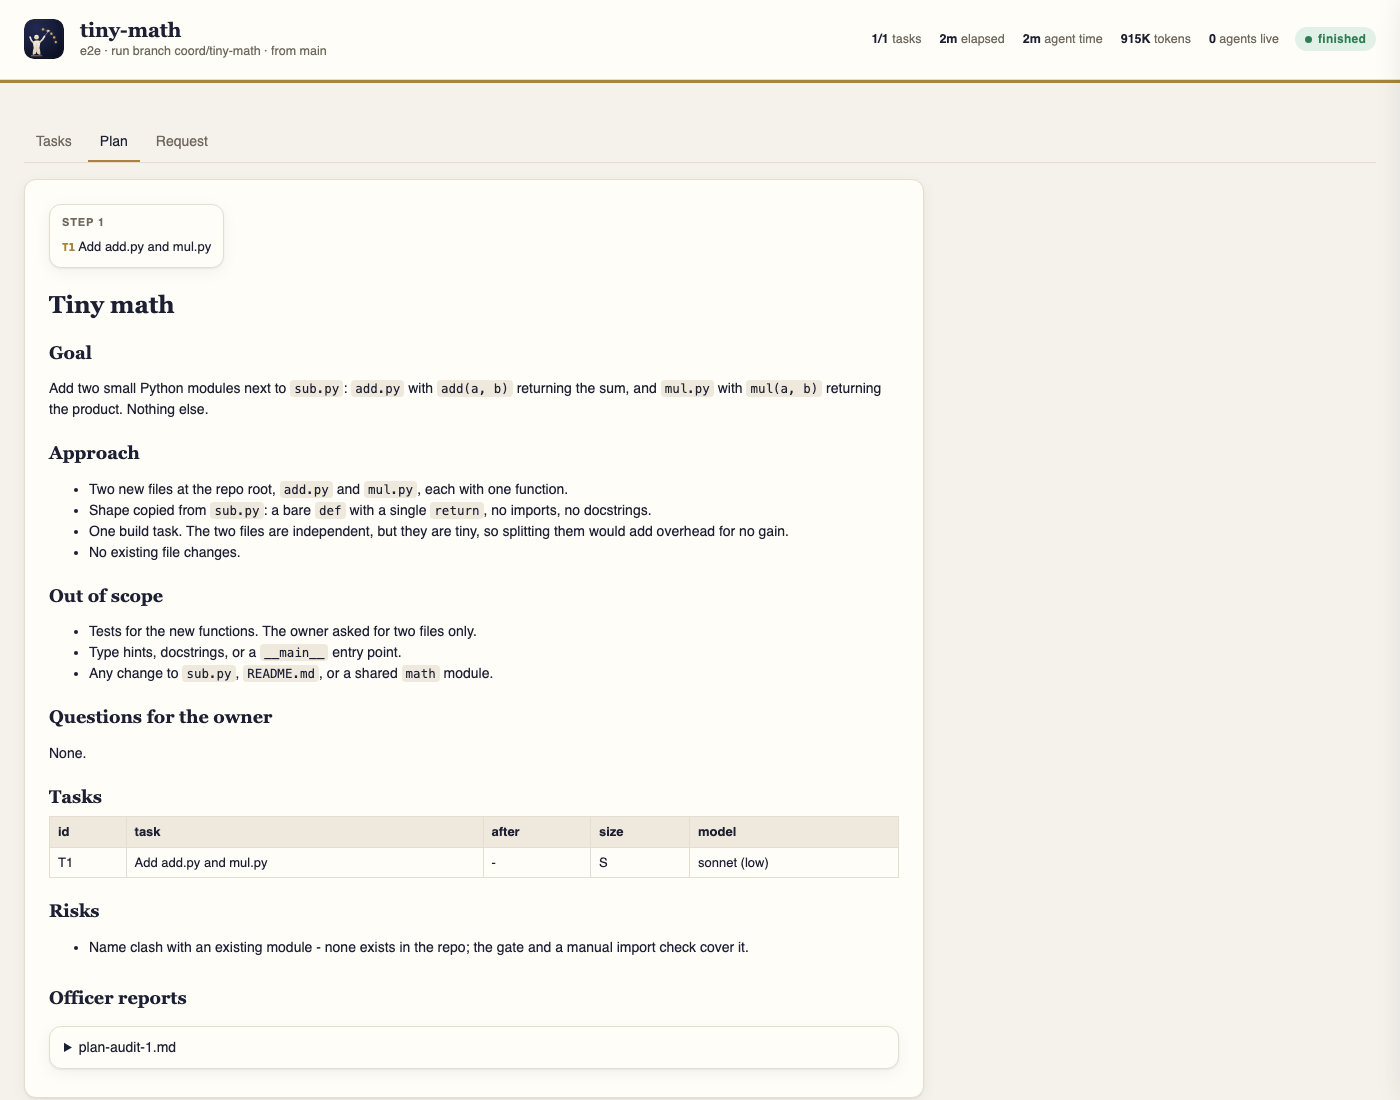
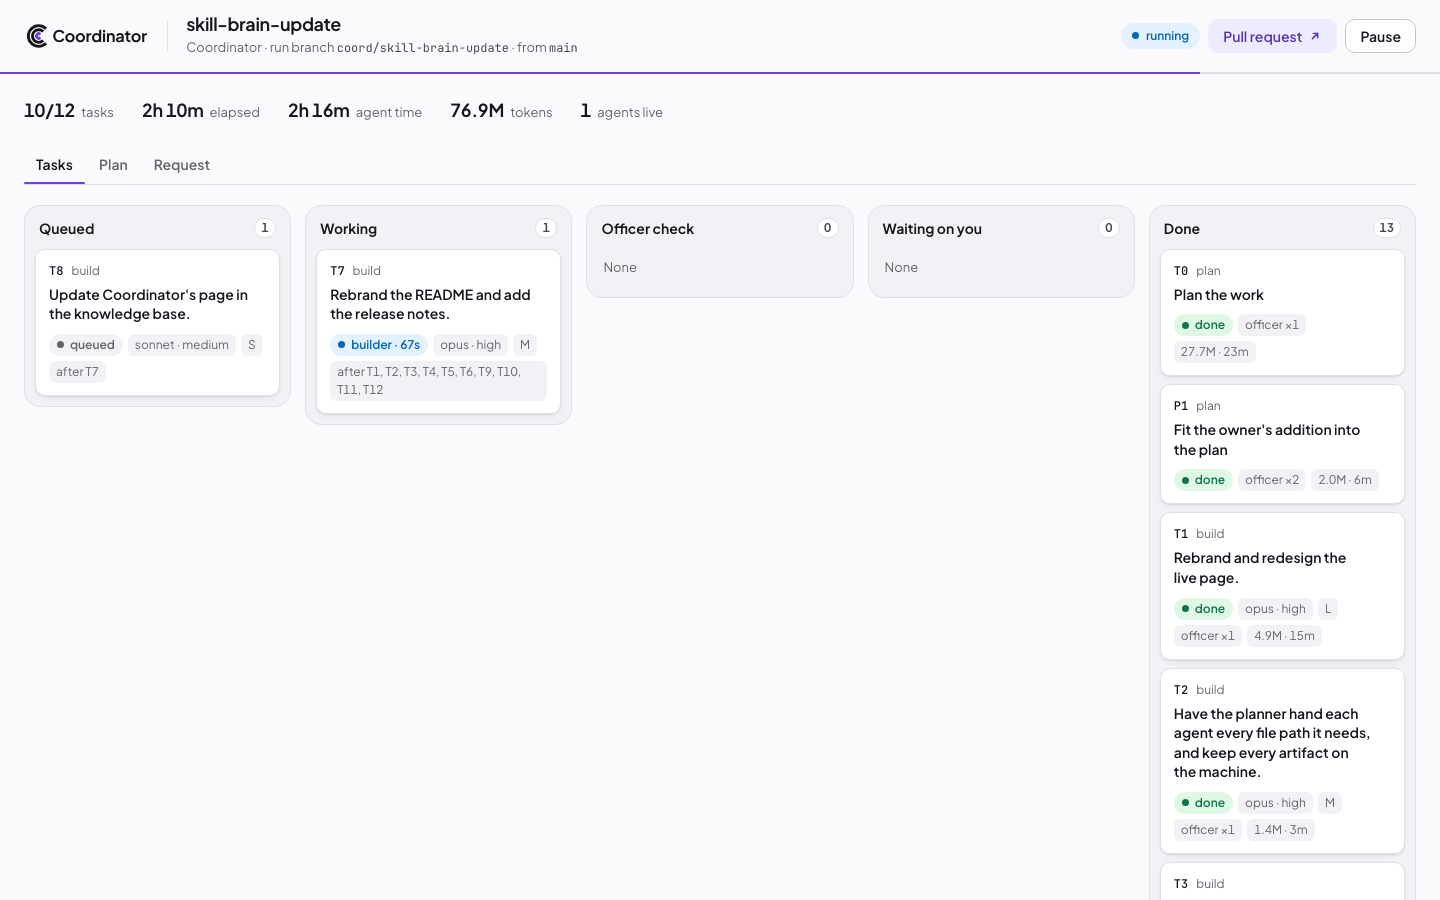
Rebrand the README and add the release notes.

diff --git a/README.md b/README.md
@@ -1,27 +1,55 @@
 <p align="center">
-  <img src="assets/banner.svg" alt="Coordinator - conduct a team of Claude Code agents from one request" width="100%">
-</p>
-
-<p align="center">
-  <img alt="version" src="https://img.shields.io/badge/version-0.4.2-c9a45c?style=flat-square">
-  <img alt="license" src="https://img.shields.io/badge/license-MIT-1d2033?style=flat-square">
-  <img alt="Claude Code" src="https://img.shields.io/badge/Claude%20Code-plugin-1d2033?style=flat-square">
-  <img alt="scheduling" src="https://img.shields.io/badge/scheduling-zero%20tokens-c9a45c?style=flat-square">
+  <img src="assets/banner.svg" alt="Coordinator: conduct a team of Claude Code agents from one request." width="100%">
 </p>
 
 <p align="center"><em>One request in. A planned, audited, reviewed branch out.</em></p>
 
 <p align="center"><a href="https://coordinator.kodexa.workers.dev"><strong>coordinator.kodexa.workers.dev</strong></a></p>
 
+<p align="center">
+  <img alt="version" src="https://img.shields.io/badge/version-0.5.0-6a44da?style=flat-square">
+  <img alt="license" src="https://img.shields.io/badge/license-MIT-151520?style=flat-square">
+  <img alt="Claude Code" src="https://img.shields.io/badge/Claude%20Code-plugin-151520?style=flat-square">
+  <img alt="scheduling" src="https://img.shields.io/badge/scheduling-zero%20tokens-6a44da?style=flat-square">
+</p>
+
 ---
 
-Coordinator turns a single `/coordinate` request into a small team of Claude Code agents that work in the
-background while you do something else. A planner splits the work, a **hallucination officer** checks the plan
-against your exact words, you approve it once, and builders work through it **in parallel**. Each builder works
-in its own git worktree, and each task is reviewed and checked again before it is merged.
+Coordinator turns one `/coordinate` request into a small team of Claude Code agents working in the background. A
+planner splits the work, a **hallucination officer** checks the plan against your exact words, you approve it once,
+and builders work **in parallel**, each in its own git worktree, reviewed and checked again before it is merged.
 
-The conductor never plays an instrument. Scheduling, merging, the gate and the live page are plain code and
-cost no tokens. The agents spend tokens only on planning, building and checking.
+The conductor never plays an instrument: scheduling, merging, the gate and the live page are plain code and cost no
+tokens. This repo is the skill; the [website](https://coordinator.kodexa.workers.dev/docs/) has the docs.
+
+## Install
+
+```sh
+git clone https://github.com/Kodexa-software/Coordinator.git ~/.coordinator/app && ~/.coordinator/app/install.sh
+```
+
+Then start a new Claude Code session and type `/coordinate`. Needs a recent Claude Code CLI, Python 3.9+ and git;
+`gh` for the pull request, Node.js for screenshots. As a plugin, or more detail:
+[Install](https://coordinator.kodexa.workers.dev/docs/install/).
+
+## Update
+
+```text
+/coordinate update
+```
+
+Or `coord update` in a terminal, then start a new session. Plugin install:
+[Update](https://coordinator.kodexa.workers.dev/docs/update/).
+
+## Remove
+
+```sh
+rm ~/.local/bin/coord ~/.claude/skills/coordinate
+rm -rf ~/.coordinator
+```
+
+End any active run first with `/coordinate terminate`. Plugin install:
+[Uninstall](https://coordinator.kodexa.workers.dev/docs/uninstall/).
 
 ## How a run flows
 
@@ -38,183 +66,62 @@ flowchart LR
     Q -- approve --> M[(Run branch<br/>+ gate)]
 ```
 
-1. **Plan.** A strong planner reads the code your request touches, not the whole repo, and writes `plan.md` plus
-   one brief per task. Each task gets its dependencies, the files it may change, its size, and the model and
-   effort it needs.
-2. **Audit.** The hallucination officer compares the plan with everything you have said. It looks for invented
-   requirements, enterprise-sized answers to simple asks, missed requirements, padded tasks, needlessly serial
-   steps and the wrong model for the job. It sends the plan back until it holds up; after three rounds, it asks
-   you.
-3. **Approve.** You read the plan on the live page or in chat and approve it, or say what to change. This is the
-   one stop in the run.
-4. **Build in parallel.** Tasks that don't depend on each other and don't share files run at the same time, each
-   in its own worktree. Each builder runs its own reviewer and fixes what it finds.
-5. **Audit and merge.** The officer checks each finished task against the plan and your words, without reading
-   the code. The scheduler then commits, merges into the run branch, runs your gate and pushes. A conflict or a
-   failing gate becomes a small fix task of its own. A draft pull request shows your full request, the plan and
-   every task, and is updated after each merge, so you can watch the changes land on GitHub.
+- **Plan.** The planner reads only the code your request touches and gives each task every file path it needs.
+- **Audit.** The officer sends the plan back until it matches your words: nothing invented, nothing missed.
+- **Approve.** Your one stop. Asks that belong to another repo start follow-up runs there, so none is dropped.
+- **Build.** Independent tasks run at once, each with its own reviewer. The draft pull request opens as work
+  starts and tracks every task.
+- **Merge.** The officer checks each task, then the scheduler commits, merges, runs your gate and pushes. Nothing
+  reaches your base branch for you.
 
-## Install
+Nothing leaves your machine: screenshots and other artifacts stay in the task's folder.
+[How it works](https://coordinator.kodexa.workers.dev/docs/how-it-works/) ·
+[Philosophy](https://coordinator.kodexa.workers.dev/docs/philosophy/).
 
-```sh
-git clone https://github.com/Kodexa-software/Coordinator.git ~/.coordinator/app && ~/.coordinator/app/install.sh
-```
+## The live page
 
-This links `/coordinate` into `~/.claude/skills` and `coord` into `~/.local/bin`. Start a new Claude Code session and
-type `/coordinate`. To update later, run `/coordinate update` (or `coord update` in a terminal), then start a new
-session.
+<p align="center"><img src="assets/live-page.png" alt="The live page: tasks moving from queued to working to done" width="88%"></p>
 
-**As a Claude Code plugin** instead: `/plugin marketplace add Kodexa-software/Coordinator`, then
-`/plugin install coordinator@coordinator`. Claude Code lists plugin commands with the plugin's name, so it shows as
-`/coordinator:coordinate` (typing `/coordinate` also works). Update it with
-`claude plugin marketplace update coordinator && claude plugin update coordinator@coordinator`.
+A local page on `127.0.0.1` shows the tasks moving from queued to done. Read each agent's conversation live, open
+any file or image, approve the plan with an answer per question, and see everything waiting on you in one list.
 
-**Needs:** a recent Claude Code CLI (`claude`), Python 3.9+, and git. The live pull request uses the GitHub CLI
-(`gh`). Before/after screenshots also need Node.js; Playwright is fetched on first use.
-
-## Use
-
-In Claude Code:
-
-```text
-/coordinate Add CSV export to the orders table, with the same columns the table shows.
-```
-
-The live page opens, the planner gets to work, and Coordinator tells you when the plan is ready. After that, a
-few words are enough:
+## Commands
 
 | You say | What happens |
 |---|---|
 | `/coordinate <request>` | Start a run |
-| `/coordinate plan <goal>` | Plan only: goals, milestones and tasks, saved in the project for a later run |
-| `/coordinate status` | Open the live page; one line in chat |
-| `/coordinate approve` | Approve the plan; building starts |
+| `/coordinate plan <goal>` | Plan only, saved in the project for a later run |
+| `/coordinate status` | Open the live page; what's waiting on you in chat |
+| `/coordinate approve` | Approve the plan (or on the live page, per question); building starts |
 | `/coordinate answer T3 <text>` | Answer an agent's question |
-| `/coordinate tell T3 <text>` | Send a note to a running agent; it arrives at its next step |
+| `/coordinate tell T3 <text>` | Send a note to a running agent |
 | `/coordinate add <text>` | Change the plan or add work; it goes back through the officer and you |
 | `/coordinate pause` / `resume` | Agents write an exact next step and stop / pick up where they stopped |
 | `/coordinate run` | Build a plan-only run, today or weeks later |
-| `/coordinate shots [note]` | Before/after screenshots (base branch vs run branch) as one PNG on your Desktop |
-| `/coordinate map [areas]` | Build or refresh the project map in `.coordinator/map/`, which planners read before the code |
-| `/coordinate accept T3` / `retry T3` / `stop T3` | Settle a task the officer keeps sending back / start it fresh / skip it |
-| `/coordinate update` | Update Coordinator to the latest version |
-| `/coordinate terminate` | End the run: stop every process, remove worktrees and internal files, keep the branch and the knowledge |
+| `/coordinate shots [note]` | Before/after screenshots as one PNG, saved in the shots task's folder |
+| `/coordinate todo` / `todo done <n>` | Manual steps only you can do / mark one done |
+| `/coordinate accept T3` / `retry T3` / `stop T3` | Settle a task / start it fresh / skip it |
+| `/coordinate update` | Update Coordinator |
+| `/coordinate terminate` | End the run; keep the branch and the knowledge |
+| `coord map [areas]` | Build or refresh the project map that planners read first |
 
 With the clone install, every command also works in a terminal as `coord <command>`, with no model involved.
+[All commands](https://coordinator.kodexa.workers.dev/docs/commands/).
 
-## The live page
+## Docs
 
-<p align="center"><img src="assets/live-page.png" alt="The live page: a plan with its steps, goal, approach and tasks" width="88%"></p>
+- [Configuration](https://coordinator.kodexa.workers.dev/docs/configuration/): settings, and where every file lives.
+- [How it works](https://coordinator.kodexa.workers.dev/docs/how-it-works/): roles, the live page, design languages,
+  the project map.
+- [Philosophy](https://coordinator.kodexa.workers.dev/docs/philosophy/): guard rails, tests off unless you ask,
+  your project's rules first.
 
-A small local page shows the tasks moving from queued to working, through the officer's check, to done. It also
-has the plan, the officer's reports, and each task's brief, changes and review. You approve plans and answer
-questions there too. It runs on `127.0.0.1` only, reads the run's files, and costs nothing to keep open.
+The earlier 0.1, measured on two real runs, spent 212M and 371M+ tokens across 40 and 64 agents. 0.2 was rebuilt
+for fewer, stronger agents in parallel, with an officer instead of cleanup. Next: measured numbers for today's
+version, and more on the live page.
 
-## Where things live
-
-| What | Where | After `terminate` |
-|---|---|---|
-| Project settings | `<project>/.coordinator/config.json` | kept |
-| The run's knowledge: `plan.md`, `tasks.json`, and per task `knowledge.md`, `changes.md`, `review.md`, officer reports | `<project>/.coordinator/<run>/` | kept, so a later run can continue |
-| Processes, logs, worktrees | `~/.coordinator/runs/<run>/` | removed |
-| Run branch | `coord/<run>`, pushed after every merged task, with a draft PR | kept |
-| Task branches | `coord-tasks/<run>/<task>` | removed |
-
-`.coordinator/` is added to the local `.git/info/exclude`, so it is never committed by accident. Each run also adds it
-to `.gitignore` in one commit on the run branch, so it reaches your branch through the run's pull request and your own
-checkout is never left with an uncommitted edit. Set `"gitignore": false` to keep your `.gitignore` untouched.
-
-## Configuration
-
-`<project>/.coordinator/config.json`. The planner fills in `gate`, `setup` and `dev` on the first run if you
-haven't.
-
-| Key | Default | Meaning |
-|---|---|---|
-| `gate` | `""` | Commands that prove a change (typecheck, lint, tests, build). Run by builders, and again after each merge |
-| `gate_cwd` | `"."` | Where the gate runs, relative to the repository root |
-| `setup` | `""` | What a fresh worktree needs first, for example linking dependencies from `$COORD_MAIN` |
-| `dev` | `{"command": "", "cwd": ".", "ready_path": "/"}` | Dev server for screenshots; `{port}` is replaced with a free port |
-| `max_parallel` | `3` | Builders at once |
-| `models` / `efforts` | Opus, high | Per role: `planner`, `builder`, `reviewer`, `officer`, `shooter`. The planner can set them per task |
-| `officer` | `{"plan": true, "tasks": true, "max_rounds": 3}` | Where the officer checks, and how many rounds before it asks you |
-| `permission_mode` | `"auto"` | Permission mode for background agents |
-| `deny` | push, commit, rebase, `reset --hard`, `gh pr`, publish, `sudo`, ... | Commands agents may never run |
-| `test_names` / `test_dirs` | common test file and folder patterns | What counts as a test file for the tests guard |
-| `gitignore` | `true` | Add `.coordinator/` to `.gitignore` on the run branch when it isn't there |
-| `push` / `pr` | `true` | Push the run branch after every merged task, and keep a draft PR with the request, the plan and the tasks up to date |
-| `base_branch` | the current branch | What the run branch starts from |
-
-## Design languages and the project map
-
-- **Design language, your choice.** When a request involves UI, the planner asks which design language to follow:
-  your project's own, Impeccable's (bundled), or another you name. The answer goes to every UI task, its
-  reviewer checks against it, and the officer checks the plan sticks to one.
-- **A map of your project.** `/coordinate map` builds a small, cited map of the code in `.coordinator/map/`, using
-  the System map method of Interpretable Context Methodology. Planners read it first instead of exploring the
-  repository on every run, and the officer checks it before it counts.
-
-Both are built in, with no other skills needed: Coordinator bundles the parts it uses, with credit and their
-licences, in [third_party/](third_party/README.md).
-
-## Guard rails
-
-- **Your project's rules come first.** Every agent loads the instruction files your own Claude Code session would:
-  the project's `CLAUDE.md` and `AGENTS.md`, those of every folder above it, and `.claude/rules`. It reads the
-  current versions, uncommitted edits included, and the guides they require. Where a project rule and an agent's
-  role disagree, the project wins, and the reviewer and the officer check it. Conflicts with how Coordinator works
-  are put to you as questions. Knowledge files your rules keep outside the repo (plans, status, decisions) are
-  planned as tasks and updated in place.
-- **Your words are the spec.** The request, every later addition and every answer are kept word for word. The
-  planner and the officer judge against all of them.
-- **No tests unless you ask.** A task's tests are off by default, and a hook blocks builders from touching test
-  files while they are. When you do ask, the reviewer and the officer check the tests are few, short and
-  relevant.
-- **Agents stay in their lane.** A builder writes only inside its worktree and its task folder. The planner
-  writes only the run's files. Agents never commit, push or switch branches; the scheduler commits.
-- **Live on GitHub, never on your base branch.** After every merged task the run branch is pushed and its draft
-  pull request is updated. Nothing is merged into your base branch for you. Set `"push": false` to keep a run
-  local.
-
-## How it compares
-
-|  | **Coordinator 0.2** | Coordinator 0.1 (earlier, unpublished) | The `/loop` skill |
-|---|---|---|---|
-| What runs the show | A script, at no token cost. Agents are separate background sessions | An Opus coordinator session, with lead agents under it | One session re-running a prompt on a schedule |
-| Who writes the code | Opus by default; the planner picks per task and the officer checks the pick | Mostly Sonnet workers; Opus only managed | The session's own model |
-| Steps between your words and the code | One: a brief, checked by the officer | Three: coordinator, then lead, then worker | None |
-| Parallel work | Yes: a worktree per task, with a file-overlap check | No: one task at a time | No |
-| Guard against invented scope | The officer audits the plan and every task, until it is right | Reviewers compared diffs with briefs | None built in |
-| Your approval | Once, on an audited plan | Ad hoc | None built in |
-| Tests | Off unless you ask; enforced by a hook | Written by default | Whatever the prompt says |
-| Proof work | The gate per task and one review; screenshots on request | Before/after pairs, pixel diffs, perf traces and full gates at every step | None built in |
-| Status | A live local page, notifications, and a draft PR updated after every task | Status files and HTML reports written by agents | The chat |
-| Context per agent | Small: a fresh session per task | Grew to 250-460K tokens per worker | Grows with every iteration |
-| Pause, resume, plan-only, terminate | Yes, including resume weeks later from the project's files | Pause and resume through notes | Stop only |
-| Best for | Requests that split into several tasks | Retired | Watching something over time; short sequential lists |
-
-### What 0.1 cost, measured
-
-Two real component-upgrade runs on the earlier version, from their transcripts:
-
-|  | Run A | Run B | Similar work in one direct session |
-|---|---|---|---|
-| Tokens | 212M | 371M, and not finished | 87M (a smaller component) |
-| Agents | 40 | 64 | 0 |
-| Wall-clock | ~12 h | 23 h+ | ~4 h |
-
-Across the two runs, there were about 1,200 screenshot and pixel-diff commands and 266 full gate runs. One run
-needed a whole cleanup task, which cut its pull request from 10,406 changed lines to 3,328. Those numbers shaped
-0.2: fewer and stronger agents, parallel work, an officer in place of after-the-fact cleanup, and no proof work
-nobody asked for. Numbers for 0.2 will be added here once it has done real runs of the same size.
-
-## Roadmap
-
-- Measured comparisons on real runs
-- A website and fuller documentation
-- A dependency-graph view and a timeline on the live page
-- Desktop notifications beyond macOS
-- Starter configs for common stacks
+**Maintainers:** every commit to `main` triggers the website's deploy through `.github/workflows/website.yml`,
+which needs the `WEBSITE_DEPLOY_TOKEN` secret.
 
 ## Credits
 
@@ -224,9 +131,8 @@ and [icm-architect](https://github.com/RinDig/icm-architect) by Jake Van Clief (
 
 ## Support
 
-Coordinator is built and maintained by [Kodexa](https://github.com/Kodexa-software) and will keep evolving. Issues and
-ideas are welcome on [GitHub](https://github.com/Kodexa-software/Coordinator/issues). Changes are listed in
-[CHANGELOG.md](CHANGELOG.md).
+Coordinator is built and maintained by [Kodexa](https://github.com/Kodexa-software). Issues and ideas are welcome on
+[GitHub](https://github.com/Kodexa-software/Coordinator/issues). Changes are in [CHANGELOG.md](CHANGELOG.md).
 
 ## License
 

diff --git a/CHANGELOG.md b/CHANGELOG.md
@@ -1,5 +1,18 @@
 # Changelog
 
+## 0.5.0 - 2026-10-28
+
+- New brand: logo, banner and a redesigned live page with smooth, calm motion and light and dark themes.
+- The live page shows each agent's conversation as it works, and opens any file or image in a viewer.
+- The plan card shows the plan's short version, with an answer per question; approve or send changes from the page.
+- The draft pull request opens when work starts, with a status body that is updated as tasks change.
+- Asks that belong to another repo become follow-up runs, started there when the plan is approved.
+- Everything waiting on you is in one list, on the live page and in chat. Agents record manual steps; `coord todo`
+  lists them.
+- Commits to `main` trigger the website's deploy (`.github/workflows/website.yml`).
+- Screenshots are saved in the shots task's folder, and no artifact leaves the machine.
+- The planner gives each agent the path of every file it needs.
+
 ## 0.4.2 - 2026-10-28
 
 - `.coordinator/` reaches `.gitignore` through the run: one commit on the run branch, merged with its pull request.
